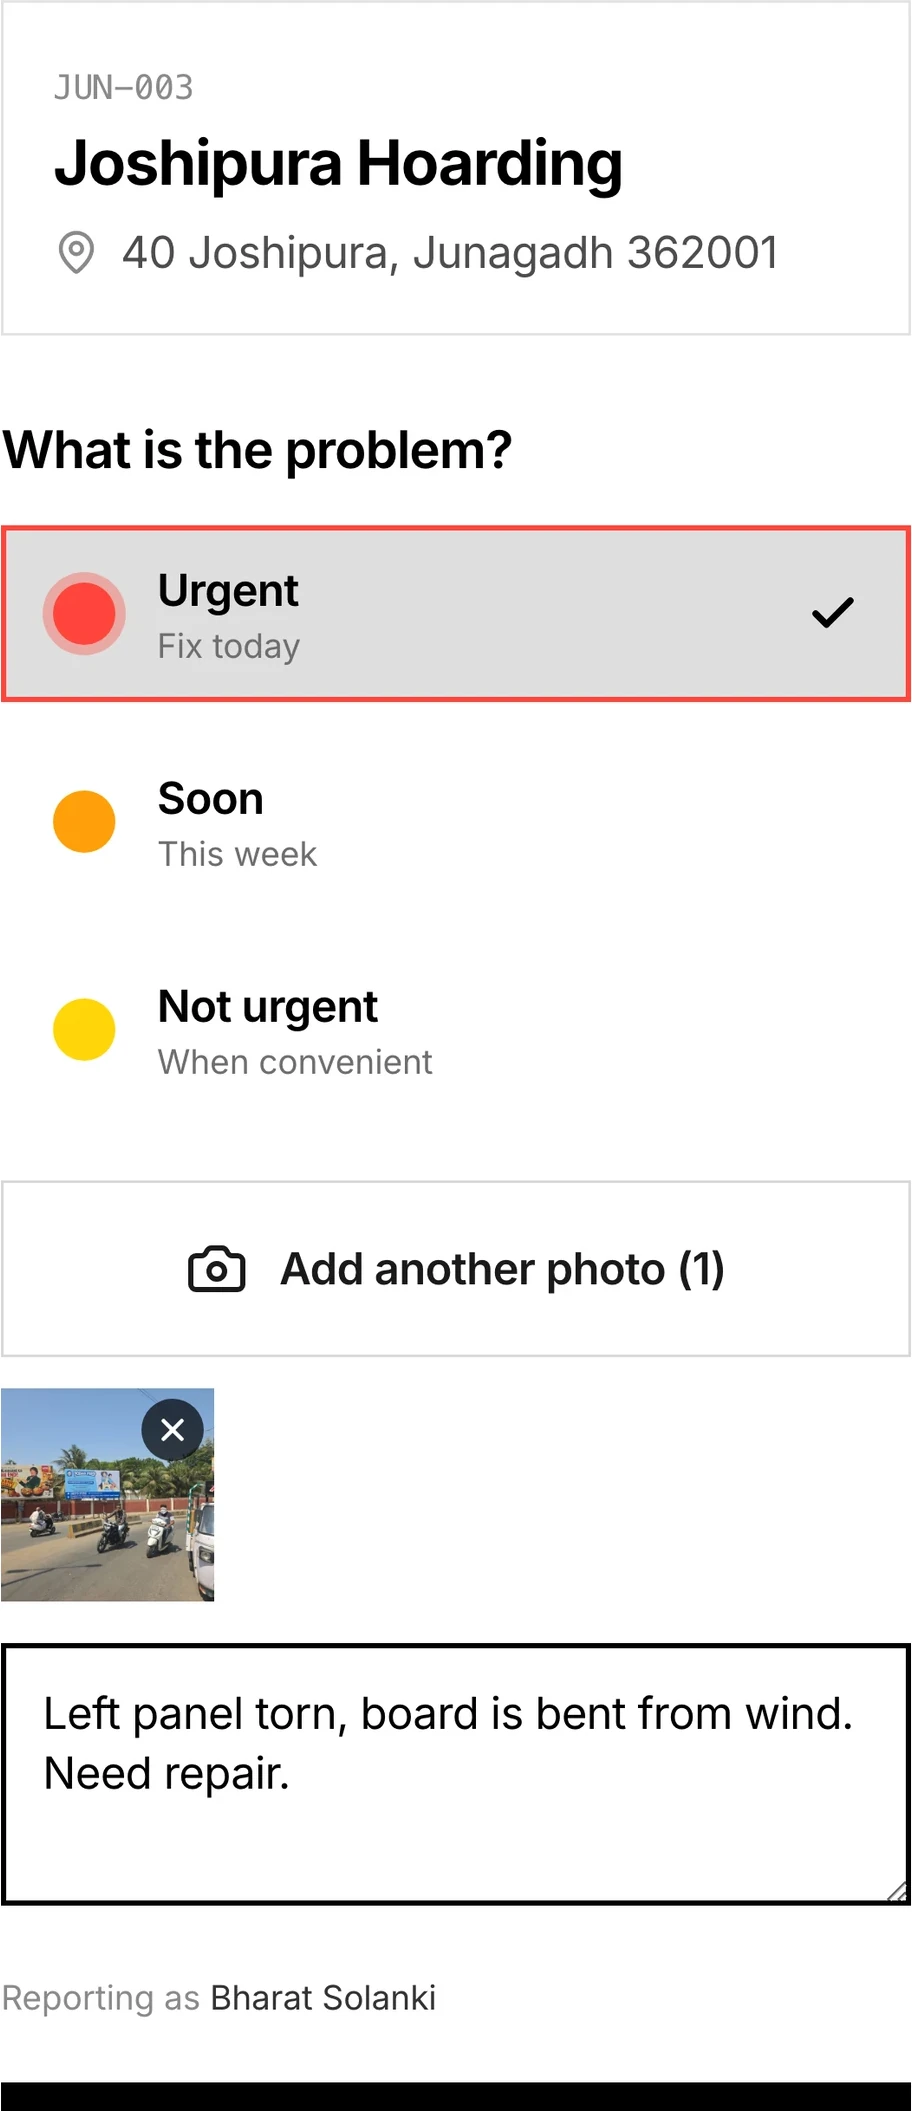
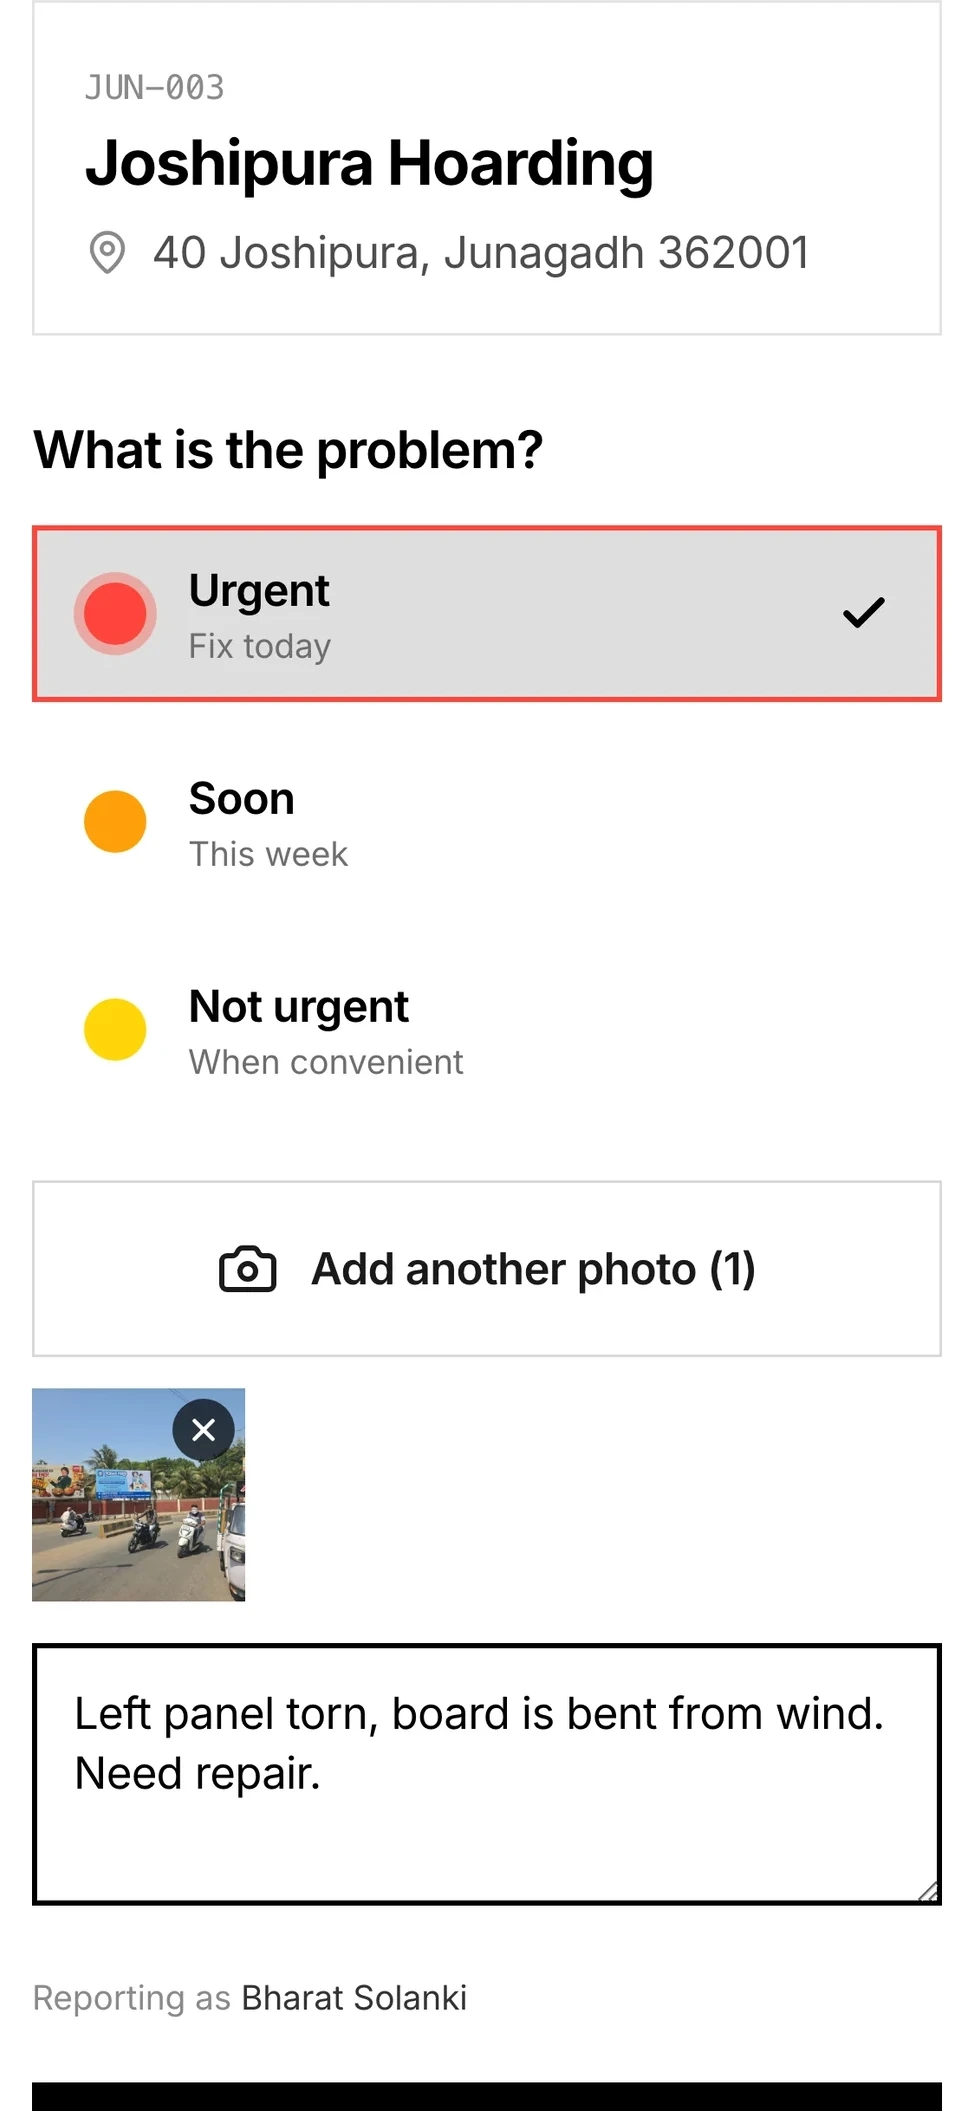
One display headline a page, and the four iteration screens actually fit
Nine p96 headings across four pages is not emphasis, it is volume. One a
page now - the claim each case study is built on - with everything else a
rung or two down. Apple runs one display-size statement and sets the rest
below it.

The four iteration captures were fitted to their frames by measurement
rather than by eye: the phone screen's aspect is 0.4620 and both captures
were 0.4320, so they were rolling inside the frame like a long page when
they are single screens; the iPad's is 1.7556 against 1.6992. All four are
padded to their frame's exact screen aspect now, so nothing rolls and
nothing is cropped.

Times Media: the street headline is centred and a rung down, and the three
red lines lead the impact figures instead of closing them - they are the
claim and the four numbers under them are the evidence.

Peak: five asides out, the ceiling line down a rung, and what's next is a
row of three cards rather than a carousel, each carrying a release mark.
Three things that all fit are not a carousel. Learnings follow it.

Lighthouse: the problem cards size to their own content instead of being
stretched to each other and left holding the difference. Liveasy: the
pillars take back the frame's own geometry, with the card type the rest of
the site uses - which is what the old pair was actually wrong about.

diff --git a/app/work/peak/page.js b/app/work/peak/page.js
@@ -4,6 +4,19 @@ import { Page, Lines, para, EMAIL, Outro } from '@/components/Chrome'
 import { CaseHero } from '@/components/Case'
 import { Media, Video } from '@/components/Media'
 import Gallery from '@/components/Gallery'
+
+// Three small marks for what's next - a bug being closed, a signal going out,
+// a release shipping. Drawn in the page's own greys, like every other graphic
+// on this site (components/PeakProblem.js).
+function NextMark({ n }) {
+  return (
+    <span className={`pw pw-${n}`} aria-hidden="true">
+      {n === 0 && <><i className="pw-lit" /><i /><i /></>}
+      {n === 1 && <><i /><i className="pw-lit" /><i /></>}
+      {n === 2 && <><i /><i /><i className="pw-lit" /></>}
+    </span>
+  )
+}
 import Frame from '@/components/Frame'
 import OtherWork from '@/components/OtherWork'
 import MotivationChart from '@/components/MotivationChart'
@@ -139,8 +152,7 @@ export default function Peak() {
         <section className="pk-sec" id="research" style={{ '--pt': 200, '--pb': 0 }}>
           <div className="pk-x" style={{ '--x': 240 }}>
             <p className="p28 w500" data-reveal>{C.research.eyebrow}</p>
-            <h2 className="p96" style={{ '--ac': '#E01D85' }} data-reveal><Lines lines={C.research.headline} /></h2>
-            <p className="p25 w500 pk-aside" data-reveal><Lines lines={C.research.aside} /></p>
+            <h2 className="p80" style={{ '--ac': '#E01D85' }} data-reveal><Lines lines={C.research.headline} /></h2>
           </div>
           <div className="pk-w pk-trio-voices" style={{ '--mw': 1420, '--mt': 96 }} data-stagger>
             {C.research.quotes.map((q, i) => (
@@ -177,8 +189,7 @@ export default function Peak() {
         <section className="pk-sec" id="competitors" style={{ '--pt': 240, '--pb': 0 }}>
           <div className="pk-x" style={{ '--x': 240 }}>
             <p className="p28 w500" data-reveal>{C.compare.eyebrow}</p>
-            <h2 className="p96" data-reveal><Lines lines={C.compare.head} /></h2>
-            <p className="p25 w500 pk-aside pk-aside-wide" data-reveal><Lines lines={C.compare.aside} /></p>
+            <h2 className="p80" data-reveal><Lines lines={C.compare.head} /></h2>
           </div>
           <div className="pk-w" style={{ '--mw': 1320, '--mt': 96 }}>
             <Compare cols={C.compare.cols} rows={C.compare.rows} keys={C.compare.key} />
@@ -223,7 +234,7 @@ export default function Peak() {
             <div className="pk-card pk-ceiling" data-reveal
                  style={V('ceiling')?.poster ? { background: `url(${V('ceiling').poster}) center/cover` } : undefined}>
               {V('ceiling')?.video && <Video src={V('ceiling').src} poster={V('ceiling').poster} />}
-              <p className="p42 center"><Lines lines={C.findings.ceiling} /></p>
+              <p className="p38 center"><Lines lines={C.findings.ceiling} /></p>
             </div>
           </div>
         </section>
@@ -330,8 +341,7 @@ export default function Peak() {
         <section className="pk-sec bg-fill" id="testing" style={{ '--pt': 200, '--pb': 200 }}>
           <div className="pk-x" style={{ '--x': 240 }}>
             <p className="p28 w500" data-reveal>{C.testing.eyebrow}</p>
-            <h2 className="p96" data-reveal><Lines lines={C.testing.headline} /></h2>
-            <p className="p25 w500 pk-aside pk-aside-wide" data-reveal><Lines lines={C.testing.aside} /></p>
+            <h2 className="p80" data-reveal><Lines lines={C.testing.headline} /></h2>
           </div>
           <div className="pk-w pk-tests" style={{ '--mw': 1448, '--mt': 96 }} data-stagger>
             {C.testing.notes.map((n, i) => (
@@ -362,7 +372,6 @@ export default function Peak() {
           <h2 className="p80 center" style={{ '--ac': '#E01D85' }} data-reveal>
             <Lines lines={C.progress.head} />
           </h2>
-          <p className="p26 w500 center pk-prog-aside" data-reveal>{para(C.progress.aside)}</p>
           <div className="pk-w pk-prog" style={{ '--mw': 1180, '--mt': 96 }} data-stagger>
             {C.progress.quotes.map((q, i) => (
               <figure key={q.who} className="pk-voice" data-reveal data-in="blur" data-amp={i % 2 ? 76 : 52}>
@@ -374,12 +383,27 @@ export default function Peak() {
           </div>
         </section>
 
+        {/* ---- what's next. Three cards is not a carousel: they all fit, so
+                they are a row and nobody has to find a paddle. ---- */}
+        <section className="pk-sec" style={{ '--pt': 240, '--pb': 0 }}>
+          <h2 className="p70 pk-x" style={{ '--x': 148 }} data-reveal><Lines lines={C.whatsNext.headline} /></h2>
+          <div className="pk-w pk-next" style={{ '--mw': 1560, '--mt': 96 }} data-stagger>
+            {C.whatsNext.cards.map((c, i) => (
+              <div key={c.title} className="pk-card pk-wn" data-reveal data-in="lift"
+                   data-amp={[52, 76, 52][i]}>
+                <NextMark n={i} />
+                <h3 className="p28">{c.title}</h3>
+                <p className="p24 pk-wn-b">{para(c.body)}</p>
+              </div>
+            ))}
+          </div>
+        </section>
+
         {/* ---- what I learned: centred head, three black cards, as the
                 updated frame draws it ---- */}
         <section className="pk-sec" id="learnings" style={{ '--pt': 240, '--pb': 0 }}>
           <p className="p28 w500 center" data-reveal>{C.learned.eyebrow}</p>
           <h2 className="p80 center pk-learn-head" data-reveal>{C.learned.head}</h2>
-          <p className="p26 w500 center pk-learn-aside" data-reveal>{para(C.learned.aside)}</p>
           <div className="pk-w pk-learn" style={{ '--mw': 1560, '--mt': 120 }} data-stagger>
             {C.learned.cards.map((c, i) => (
               <div key={i} className="pk-card black pk-learn-c" data-reveal data-in="lift"
@@ -389,20 +413,6 @@ export default function Peak() {
               </div>
             ))}
           </div>
-        </section>
-
-        {/* ---- what's next ---- */}
-        <section className="pk-sec" style={{ '--pt': 240, '--pb': 0 }}>
-          <h2 className="p70 pk-x" style={{ '--x': 148 }} data-reveal><Lines lines={C.whatsNext.headline} /></h2>
-          <Gallery label="What's next" className="pk-gallery pk-light-paddles pk-next-cards" always
-                   style={{ '--inset': 'calc(149 * var(--u))' }}>
-            {C.whatsNext.cards.map(c => (
-              <div key={c.title} className="pk-card pk-wn" data-reveal data-in="side">
-                <h3 className="p28">{c.title}</h3>
-                <p className="p26 w500">{para(c.body)}</p>
-              </div>
-            ))}
-          </Gallery>
         </section>
 
         {/* ---- FAQ ---- */}

diff --git a/app/work/times-media/page.js b/app/work/times-media/page.js
@@ -64,7 +64,7 @@ export default function TimesMedia() {
               <Lines lines={C.research.headline} swipe />
             </h2>
           </div>
-          <div className="du-w tm-owner" style={{ '--mw': 1161, '--mt': 229 }} data-reveal data-in="scale">
+          <div className="du-w tm-owner" style={{ '--mw': 1161, '--mt': 150 }} data-reveal data-in="scale">
             {/* no forced ratio: the column is 500 wide and the card 532 tall,
                 so a 1:1 square overflowed it by 32px and shoved the quote
                 across. It fills its own column and crops instead. */}
@@ -90,7 +90,7 @@ export default function TimesMedia() {
                 spanning both sections. ---- */}
         <div className="tm-run" id="problem">
           <section className="du-sec" style={{ '--pt': 185, '--pb': 104 }}>
-            <h2 className="p96 du-x" style={{ '--x': 237 }} data-reveal data-swipe>
+            <h2 className="p80 du-x" style={{ '--x': 237 }} data-reveal data-swipe>
               <Lines lines={C.problem.headline} swipe />
             </h2>
             <div className="tm-broke-copy" data-stagger>
@@ -168,10 +168,12 @@ export default function TimesMedia() {
         {/* ---- 3D street view. The updated frame turns the ground back to
                 white here and keeps it white all the way to the foot. ---- */}
         <section className="du-sec" id="in-the-field" style={{ '--pt': 437, '--pb': 240 }}>
-          <h2 className="p96 du-x" style={{ '--x': 256 }} data-reveal data-swipe>
-            <Lines lines={C.street.headline} swipe />
-          </h2>
-          <div className="du-w tm-shot" style={{ '--mw': 1221, '--mt': 225 }} data-reveal data-in="mask">
+          <div className="du-w" style={{ '--mw': 1400 }}>
+            <h2 className="p80 center" data-reveal data-swipe>
+              <Lines lines={C.street.headline} swipe />
+            </h2>
+          </div>
+          <div className="du-w tm-shot" style={{ '--mw': 1221, '--mt': 150 }} data-reveal data-in="mask">
             <Frame kind="ipad" w={1221} clip={V('street')} data-sv="tilt"
                    alt="A board previewed in 3D Street View, from the road a driver would see it from" />
             <p className="p38 center tm-cap">{para(C.street.shots[0].line)}</p>
@@ -217,7 +219,14 @@ export default function TimesMedia() {
         <section className="du-sec" id="impact" style={{ '--pt': 233, '--pb': 200 }}>
           <p className="p28 w500 center" data-reveal>{C.impact.eyebrow}</p>
           <h2 className="p80 center tm-learn-head" data-reveal><Lines lines={C.impact.head} /></h2>
-          <div className="du-w tm-metrics" style={{ '--mw': 1448, '--mt': 130 }} data-stagger>
+          {/* the slogans lead the figures rather than closing them - they are
+              the claim, and the four numbers under them are the evidence */}
+          <div className="du-w tm-impact-close" style={{ '--mw': 1400 }}>
+            <p className="p48 center" style={{ color: RED }} data-reveal data-swipe>
+              <Lines lines={C.impact.close} swipe />
+            </p>
+          </div>
+          <div className="du-w tm-metrics" style={{ '--mw': 1448, '--mt': 110 }} data-stagger>
             {C.impact.figures.map((f, i) => (
               <div key={f.label} className="tm-metric" data-reveal data-in="scale" data-amp={i % 2 ? 76 : 52}>
                 <p className="p70 tm-metric-n">{f.n}</p>
@@ -225,13 +234,6 @@ export default function TimesMedia() {
                 <p className="p23 w500 tm-metric-b">{para(f.note)}</p>
               </div>
             ))}
-          </div>
-          {/* inside its own measure, like every other swipe headline here -
-              the clip's -.06em bleed hangs 2px off the viewport otherwise */}
-          <div className="du-w tm-impact-close" style={{ '--mw': 1400 }}>
-            <p className="p48 center" style={{ color: RED }} data-reveal data-swipe>
-              <Lines lines={C.impact.close} swipe />
-            </p>
           </div>
         </section>
 
@@ -242,10 +244,10 @@ export default function TimesMedia() {
         <section className="du-sec bg-fill tm-iter-sec" id="feedback" style={{ '--pt': 120, '--pb': 200 }}>
           <div className="du-x" style={{ '--x': 240 }}>
             <p className="p28 w500" data-reveal>{C.iterate.eyebrow}</p>
-            <h2 className="p96" data-reveal><Lines lines={C.iterate.head} /></h2>
+            <h2 className="p80" data-reveal><Lines lines={C.iterate.head} /></h2>
             <p className="p25 w500 tm-iter-aside" data-reveal><Lines lines={C.iterate.aside} /></p>
           </div>
-          <div className="du-w tm-iters" style={{ '--mw': 1448, '--mt': 96 }} data-stagger>
+          <div className="du-w tm-iters" style={{ '--mw': 1448, '--mt': 80 }} data-stagger>
             {C.iterate.cards.map((c, i) => (
               <div key={i} data-reveal data-in="lift" data-amp={i % 2 ? 76 : 52}>
                 <Flip label={`what changed for ${c.who}`}

diff --git a/app/globals.css b/app/globals.css
@@ -1443,13 +1443,25 @@ html.js.no-reduced-motion .in .pk-chart-band{opacity:1;transform:none;
 }
 
 /* what's next */
-.pk-next-cards{margin-top:calc(188*var(--u))}
-.pk-wn{width:calc(538*var(--u));height:calc(441*var(--u));display:flex;flex-direction:column;justify-content:flex-end;
-  padding:0 calc(51*var(--u)) calc(44*var(--u))}
-.pk-wn .p26{margin-top:calc(14*var(--u));color:#6E6E73}
+/* three cards that all fit are a row, not a carousel - nobody should have to
+   find a paddle to read a list of three things */
+.pk-next{display:grid;grid-template-columns:repeat(3,1fr);gap:calc(28*var(--u))}
+.pk-wn{display:flex;flex-direction:column;justify-content:flex-end;
+  min-height:calc(330*var(--u));padding:calc(44*var(--u)) calc(40*var(--u))}
+.pk-wn-b{margin-top:calc(16*var(--u));color:#6E6E73}
+.du .pk-wn-b{line-height:1.45}
 .pk-wn .p28{color:#000}
-.pk-next-cards .paddles{margin:calc(44*var(--u)) calc(269*var(--u)) 0 0}
-@media (max-width:734px){ .pk-wn{width:78vw;height:auto;min-height:240px;padding:28px} }
+/* a release moving along: three ticks, one of them live */
+.pw{display:flex;align-items:center;gap:calc(10*var(--u));margin-bottom:auto;
+  padding-bottom:calc(34*var(--u))}
+.pw i{display:block;width:calc(34*var(--u));min-width:16px;height:calc(6*var(--u));
+  min-height:3px;border-radius:999px;background:#D8D8DD}
+.pw .pw-lit{background:#E8842A;width:calc(58*var(--u))}
+@media (max-width:1068px){
+  .pk-next{grid-template-columns:1fr;gap:16px}
+  .pk-wn{min-height:0;padding:28px}
+  .pw{padding-bottom:24px}
+}
 
 /* the other projects, one iPad at a time */
 /* one iPad at a time, as the frame draws it: the track is exactly one slide wide */
@@ -1592,7 +1604,8 @@ html.js.no-reduced-motion .in .pk-chart-band{opacity:1;transform:none;
 .tm-metric-n{letter-spacing:-.018em}
 .tm-metric-l{margin-top:calc(20*var(--u));letter-spacing:-.004em}
 .tm-metric-b{margin-top:calc(22*var(--u));color:#6E6E73;line-height:1.45}
-.tm-impact-close{margin-top:calc(160*var(--u))}
+/* now leads the figures, so the air goes above it, not below */
+.tm-impact-close{margin-top:calc(90*var(--u))}
 
 /* ---- the four inputs behind a board's visibility score -----------------------
    The heading holds while the four run past it and down into the screen that
@@ -1627,7 +1640,7 @@ html.js.no-reduced-motion .in .pk-chart-band{opacity:1;transform:none;
   .tm-score-list .tm-score-b{max-width:none}
   .tm-metrics{grid-template-columns:1fr 1fr;gap:18px}
   .tm-metric{padding:26px}
-  .tm-impact-close{margin-top:64px}
+  .tm-impact-close{margin-top:32px}
   .tm-score-lead{margin-top:16px}
 }
 @media (max-width:734px){
@@ -1983,12 +1996,15 @@ html.js.no-reduced-motion [data-reveal].hm-band-line.in{
 /* `1fr` rows, not auto: the second pair's body runs a line longer than the
    first's, so auto rows left the bottom two cards 29px taller than the top
    two. All four match the tallest now. */
+/* Back to the frame's own geometry - a 941 block offset to the right of the
+   heading, cards with a floor - with the type on the card ramp the rest of
+   the site uses, which is what the old pair was actually wrong about. */
 .lv-cards{display:grid;grid-template-columns:1fr 1fr;grid-auto-rows:1fr;
-  gap:calc(28*var(--u));
-  margin:calc(110*var(--u)) var(--m) 0 calc(261*var(--u))}
-/* Grid rows stretch, so a pair still matches without a floor height. */
-.lv-card{background:#fff;color:#1D1D1F;border-radius:calc(20*var(--u));
-  padding:calc(46*var(--u)) calc(42*var(--u));display:flex;flex-direction:column}
+  gap:calc(52*var(--u)) calc(43*var(--u));
+  width:calc(941*var(--u));margin:calc(150*var(--u)) var(--m) 0 calc(458*var(--u))}
+.lv-card{background:#fff;color:#1D1D1F;border-radius:calc(27*var(--u));
+  min-height:calc(450*var(--u));padding:calc(52*var(--u)) calc(50*var(--u));
+  display:flex;flex-direction:column}
 .lv-card-body{margin-top:calc(24*var(--u));color:#6E6E73;line-height:1.5}
 
 /* the redesign rows: a device and its line. The middle row puts the copy
@@ -2236,7 +2252,10 @@ html.no-touch .pin-credit-link:hover{text-decoration-color:#fff}
 /* the three problem cards */
 /* The format he picked out: one large image card across the top with its
    heading laid over the picture, and two plain cards beneath it. */
-.lh-probs{display:grid;grid-template-columns:1fr 1fr;gap:calc(28*var(--u))}
+/* align-items:start, so a card with a three-pill graphic is not stretched to
+   the height of the one with nine chips and left holding the difference */
+.lh-probs{display:grid;grid-template-columns:1fr 1fr;gap:calc(28*var(--u));
+  align-items:start}
 .lh-prob{background:#FFFFFF;border-radius:calc(20*var(--u));
   padding:calc(54*var(--u)) calc(48*var(--u))}
 /* 460, not 620: at 620 the photo card stood 470px against two 232px cards

diff --git a/app/work/liveasy/page.js b/app/work/liveasy/page.js
@@ -57,7 +57,7 @@ export default function Liveasy() {
                 all four points run past it, across the white/black seam. ---- */}
         <div className="lv-run" id="why">
           <section className="du-sec" style={{ '--pt': 264, '--pb': 155 }}>
-            <h2 className="p96 center du-w" style={{ '--mw': 1400 }} data-reveal>
+            <h2 className="p80 center du-w" style={{ '--mw': 1400 }} data-reveal>
               <Lines lines={C.problem.headline} />
             </h2>
             <div className="lv-points">
@@ -95,7 +95,6 @@ export default function Liveasy() {
           <div className="du-x lv-res-head" style={{ '--x': 261 }}>
             <p className="p28 w500" data-reveal>{C.research.eyebrow}</p>
             <h2 className="p80" data-reveal><Lines lines={C.research.headline} /></h2>
-            <p className="p26 w500 lv-res-aside" data-reveal>{para(C.research.aside)}</p>
           </div>
           <div className="lv-cards" data-stagger>
             {C.research.cards.map((c, i) => (

diff --git a/app/work/lighthouse/page.js b/app/work/lighthouse/page.js
@@ -133,7 +133,7 @@ export default function Lighthouse() {
         <section className="du-sec" id="research" style={{ '--pt': 240, '--pb': 0 }}>
           <div className="du-x" style={{ '--x': 240 }}>
             <p className="p28 w500" data-reveal>{C.research.eyebrow}</p>
-            <h2 className="p96" data-reveal><Lines lines={C.research.head} /></h2>
+            <h2 className="p80" data-reveal><Lines lines={C.research.head} /></h2>
             <p className="p25 w500 lh-aside" data-reveal>{para(C.research.aside)}</p>
           </div>
           <div className="du-w lh-people" style={{ '--mw': 1448, '--mt': 96 }} data-stagger>
